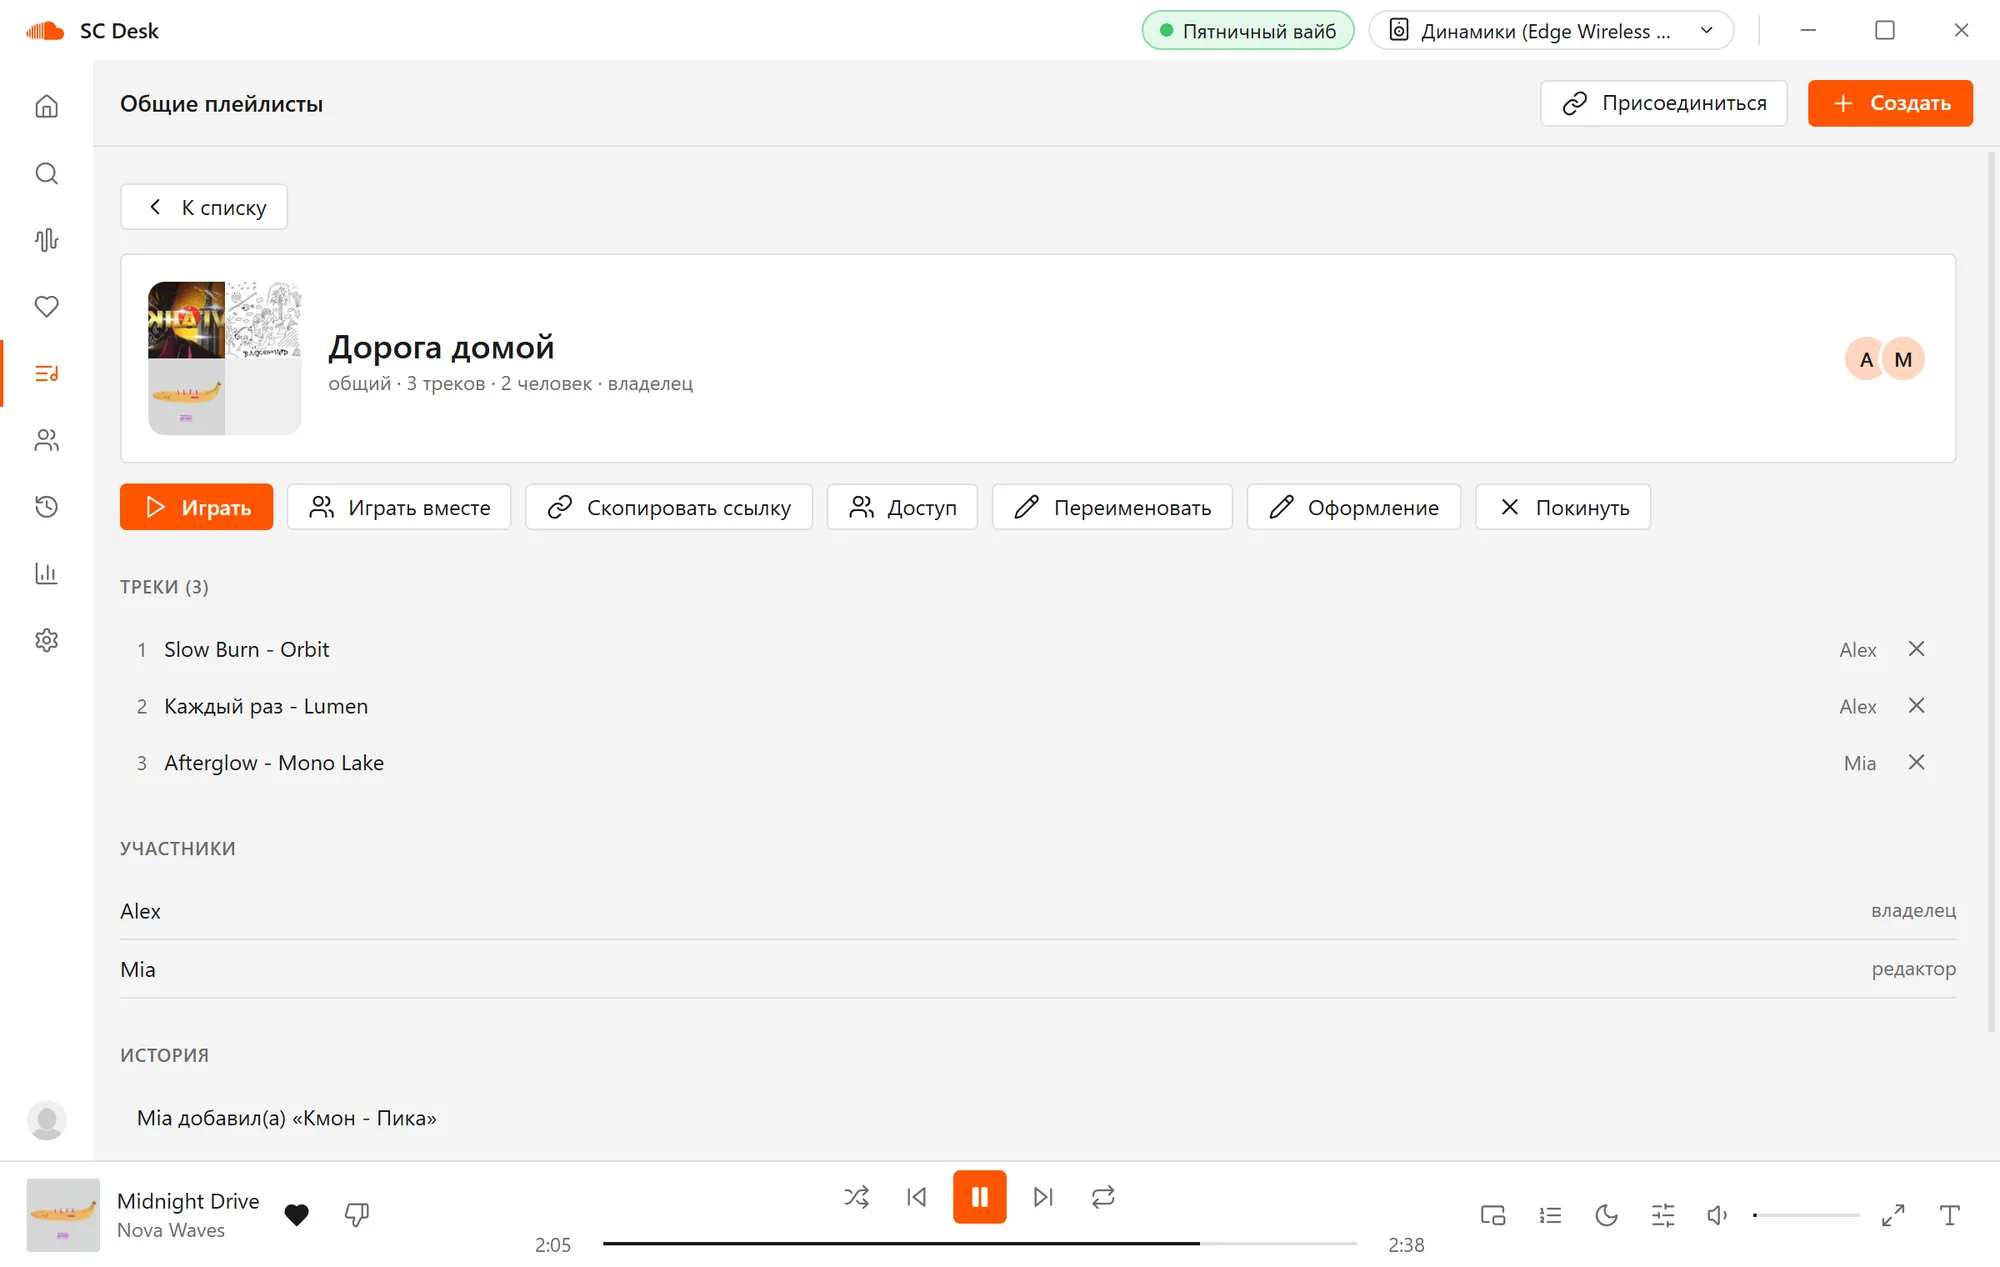
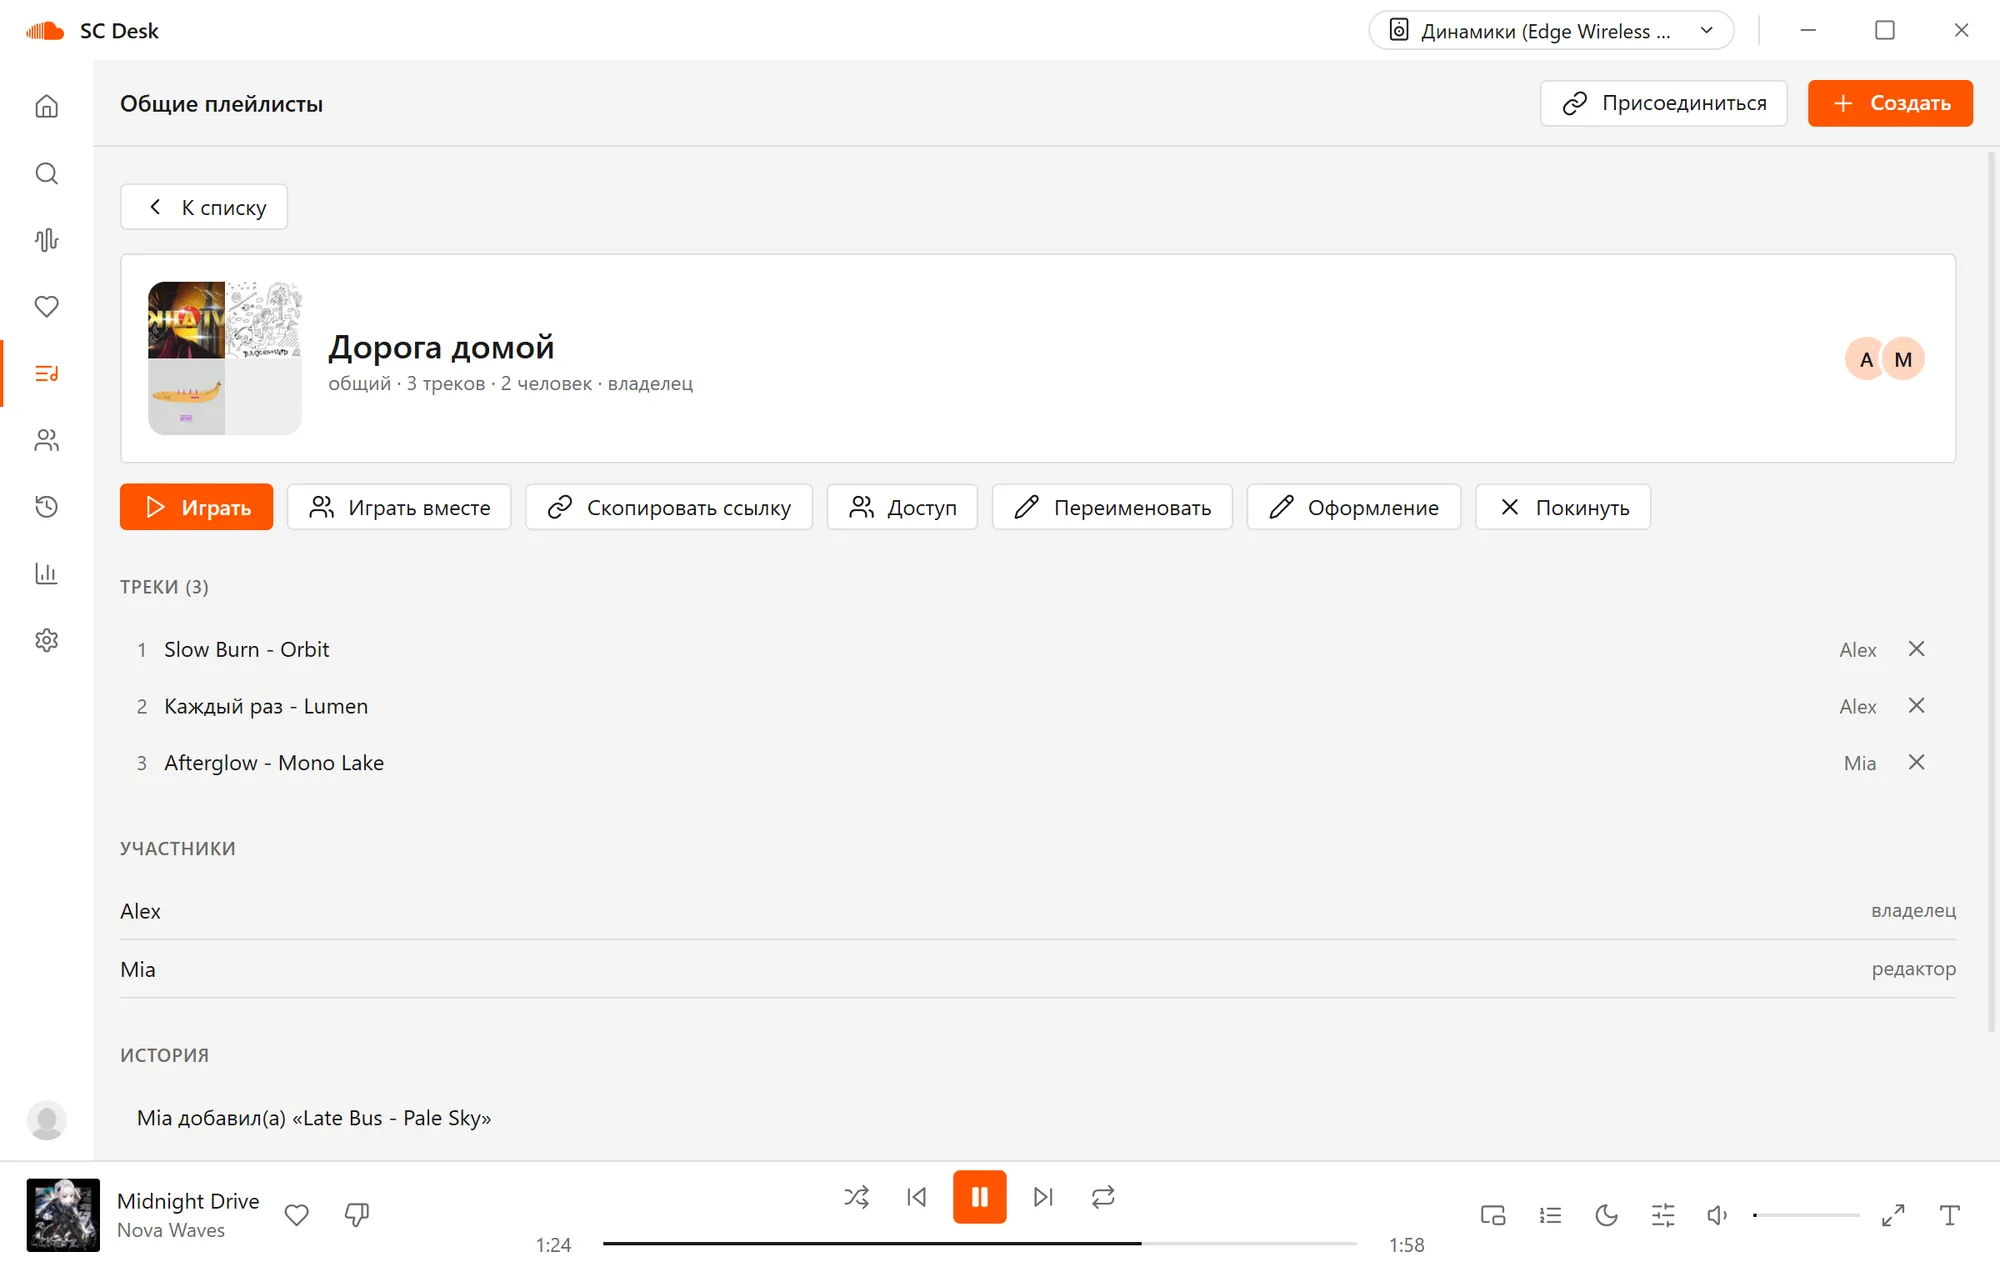
Сайт: английская страница со скриншотами программы на английском; строки интерфейса для комнат дополнены

diff --git a/docs/en/index.html b/docs/en/index.html
@@ -8,7 +8,7 @@
 <meta name="description" content="SC Desk is a free SoundCloud client for Windows without ads: a smart wave, rooms to listen together, shared playlists, word-by-word lyrics.">
 <meta property="og:title" content="SC Desk: SoundCloud without ads for Windows">
 <meta property="og:description" content="SC Desk is a free SoundCloud client for Windows without ads: a smart wave, rooms to listen together, shared playlists, word-by-word lyrics.">
-<meta property="og:image" content="../assets/rooms-dark.webp">
+<meta property="og:image" content="../assets/en-rooms-dark.webp">
 <link rel="icon" href="../assets/favicon.png">
 <link rel="apple-touch-icon" href="../assets/icon.png">
 <link rel="stylesheet" href="../assets/site.css">
@@ -31,7 +31,7 @@
     <p class="meta"><span>Free · Windows 10 and 11</span><span class="meta-size"></span></p>
     <div class="window hero-window">
       <div class="winbar"><i></i><i></i><i></i></div>
-      <picture><source media="(prefers-color-scheme: light)" srcset="../assets/wave-light.webp"><img class="" src="../assets/wave-dark.webp" width="2000" height="1267" alt="My Wave" decoding="async"></picture>
+      <picture><source media="(prefers-color-scheme: light)" srcset="../assets/en-wave-light.webp"><img class="" src="../assets/en-wave-dark.webp" width="2000" height="1267" alt="My Wave" decoding="async"></picture>
     </div>
   </section>
 
@@ -50,10 +50,10 @@
         <div class="window">
           <div class="winbar"><i></i><i></i><i></i></div>
           <div class="shots">
-            <div class="shot is-on" data-step="0" data-x="23" data-y="27"><picture><source media="(prefers-color-scheme: light)" srcset="../assets/wave-light.webp"><img class="" src="../assets/wave-dark.webp" width="2000" height="1267" alt="My Wave" decoding="async"></picture></div>
-            <div class="shot" data-step="1" data-x="70.4" data-y="16.7"><picture><source media="(prefers-color-scheme: light)" srcset="../assets/rooms-light.webp"><img class="" src="../assets/rooms-dark.webp" width="2000" height="1267" alt="Rooms" loading="lazy" decoding="async"></picture></div>
-            <div class="shot" data-step="2" data-x="20" data-y="40"><picture><source media="(prefers-color-scheme: light)" srcset="../assets/shared-light.webp"><img class="" src="../assets/shared-dark.webp" width="2000" height="1267" alt="Shared playlists" loading="lazy" decoding="async"></picture></div>
-            <div class="shot" data-step="3" data-x="84.5" data-y="15.2"><picture><source media="(prefers-color-scheme: light)" srcset="../assets/lyrics-light.webp"><img class="" src="../assets/lyrics-dark.webp" width="2000" height="1267" alt="Lyrics" loading="lazy" decoding="async"></picture></div>
+            <div class="shot is-on" data-step="0" data-x="22.1" data-y="27.2"><picture><source media="(prefers-color-scheme: light)" srcset="../assets/en-wave-light.webp"><img class="" src="../assets/en-wave-dark.webp" width="2000" height="1267" alt="My Wave" decoding="async"></picture></div>
+            <div class="shot" data-step="1" data-x="67.6" data-y="16.7"><picture><source media="(prefers-color-scheme: light)" srcset="../assets/en-rooms-light.webp"><img class="" src="../assets/en-rooms-dark.webp" width="2000" height="1267" alt="Rooms" loading="lazy" decoding="async"></picture></div>
+            <div class="shot" data-step="2" data-x="18.1" data-y="40.1"><picture><source media="(prefers-color-scheme: light)" srcset="../assets/en-shared-light.webp"><img class="" src="../assets/en-shared-dark.webp" width="2000" height="1267" alt="Shared playlists" loading="lazy" decoding="async"></picture></div>
+            <div class="shot" data-step="3" data-x="84.5" data-y="15.2"><picture><source media="(prefers-color-scheme: light)" srcset="../assets/en-lyrics-light.webp"><img class="" src="../assets/en-lyrics-dark.webp" width="2000" height="1267" alt="Lyrics" loading="lazy" decoding="async"></picture></div>
             <span class="cursor" aria-hidden="true"><svg viewBox="0 0 24 24" width="26" height="26"><path d="M5 3l14 8-6 1.6L9.6 19z"/></svg></span>
           </div>
         </div>

diff --git a/src/ui/views/rooms.ts b/src/ui/views/rooms.ts
@@ -324,7 +324,7 @@ export class RoomsView implements View {
       await navigator.clipboard.writeText(LINK + v.channel).catch(() => undefined);
       toast(T('Ссылка на комнату скопирована'));
     });
-    const leave = btn(T('Выйти'), null);
+    const leave = btn(T('Выйти из комнаты'), null);
     leave.addEventListener('click', async () => {
       await invoke('room_leave').catch(() => undefined);
       room.view = null;
@@ -372,7 +372,7 @@ export class RoomsView implements View {
       h(
         'div',
         { class: 'rm-card-body' },
-        cur ? h('div', {}, h('div', { class: 'strong', dir: 'auto', text: cur.title }), h('div', { class: 'muted', dir: 'auto', text: cur.artist })) : h('div', { class: 'muted', text: v.queue.length ? T('Очередь сохранена. Нажмите «Играть», чтобы продолжить.') : T('Пока ничего не играет. Добавьте трек: правая кнопка по треку - «Добавить в комнату».') }),
+        cur ? h('div', {}, h('div', { class: 'strong', dir: 'auto', text: cur.title }), h('div', { class: 'muted', dir: 'auto', text: cur.artist })) : h('div', { class: 'muted', text: v.queue.length ? T('Очередь сохранена. Нажмите «Играть», чтобы продолжить.') : T('Пока ничего не играет. Добавьте трек: кнопка рядом с треком или «В конец очереди» в меню трека.') }),
         h('div', { class: 'rm-bar' }, bar),
         h('div', { class: 'rm-timerow' }, time, h('span', { class: `small ${loading ? 'rm-warn' : 'rm-ok'}`, text: state })),
         v.host ? h('div', { class: 'rm-ctl' }, prev, pp, next) : h('div', { class: 'muted small', text: T('Музыкой управляет хост') }),

diff --git a/src/ui/i18n_en.ts b/src/ui/i18n_en.ts
@@ -859,4 +859,8 @@ export const EN: Record<string, string> = {
   'Вывод звука': 'Sound output',
   'сейчас: {0}': 'now: {0}',
   'Треки в плеере SoundCloud (защищённые) идут на устройство по умолчанию.': 'Tracks in the SoundCloud player (protected ones) go to the default device.',
+  'проблема со связью': 'connection problem',
+  'Мои комнаты': 'My rooms',
+  'Пока ничего не играет. Добавьте трек: кнопка рядом с треком или «В конец очереди» в меню трека.': 'Nothing is playing yet. Add a track: the button next to a track or "Add to queue" in the track menu.',
+  'Треки ({0})': 'Tracks ({0})',
 };
